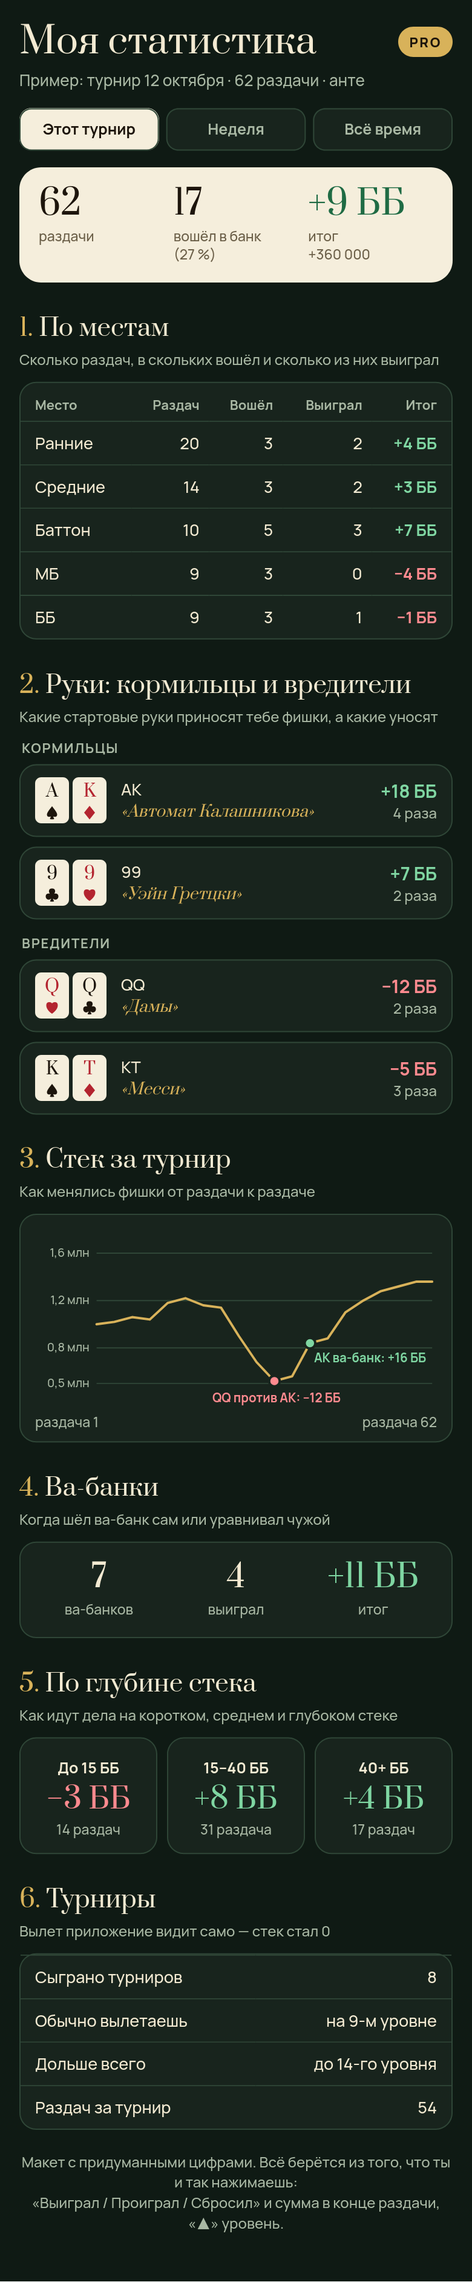
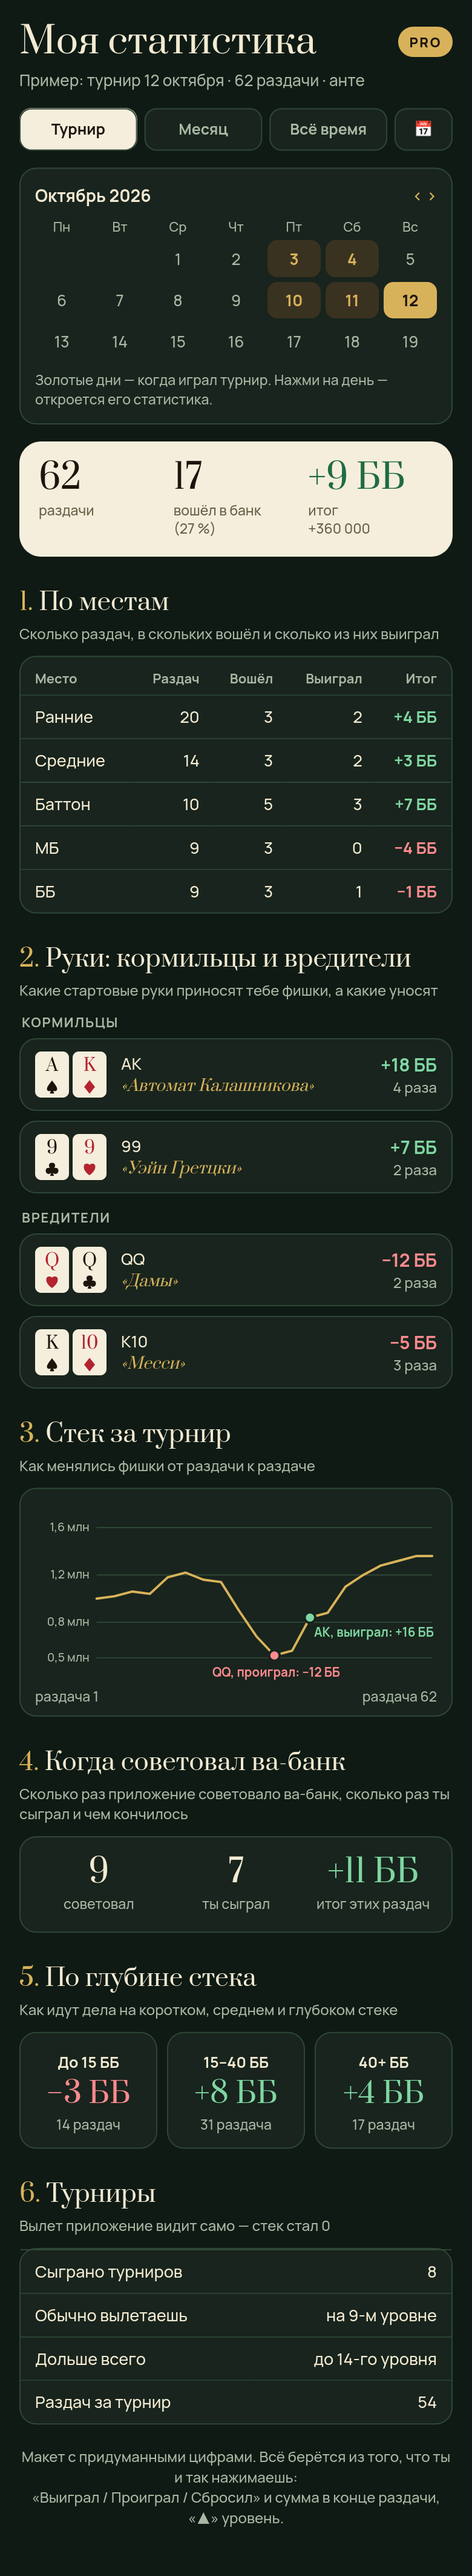
Макеты Pro по замечаниям: тренажёр на настоящем столе, статистика с календарём

Changed region(s): [[0.0308, 0.0, 0.9846, 0.9947], [0.6154, 0.746, 0.6769, 0.8082], [0.6154, 0.2487, 0.6769, 0.3108]]

diff --git a/mockups/pro-stats.html b/mockups/pro-stats.html
@@ -52,13 +52,32 @@ td { padding: 8px; text-align: right; border-top: 1px solid var(--panel-line); w
 .ai { display: grid; grid-template-columns: 1fr 1fr 1fr; text-align: center; padding: 14px 8px; }
 .ai .big { font: 400 26px/1.1 Prata; }
 .ai small { color: var(--muted); font-size: 11.5px; }
+.tabs span:last-child { flex: 0 0 48px; }
+.cal { background: var(--panel); border: 1px solid var(--panel-line); border-radius: 14px; padding: 12px; margin-bottom: 14px; }
+.cal-head { display: flex; justify-content: space-between; font-size: 14px; margin-bottom: 8px; } .cal-head span { color: var(--gold); }
+.cal-grid { display: grid; grid-template-columns: repeat(7, 1fr); gap: 4px; text-align: center; font-size: 13px; }
+.cal-grid i { font-style: normal; color: var(--muted); font-size: 11px; }
+.cal-grid span { padding: 6px 0; border-radius: 8px; color: var(--muted); }
+.cal-grid .t { background: #3a3220; color: var(--gold); font-weight: 700; }
+.cal-grid .on { background: var(--gold); color: var(--ink); }
+.cal-note { color: var(--muted); font-size: 11.5px; margin-top: 8px; }
 .note { color: var(--muted); font-size: 12px; margin-top: 18px; text-align: center; }
 </style>
 </head>
 <body>
   <div class="top"><h1>Моя статистика</h1><span class="pro">PRO</span></div>
   <p class="sub">Пример: турнир 12 октября · 62 раздачи · анте</p>
-  <div class="tabs"><span class="on">Этот турнир</span><span>Неделя</span><span>Всё время</span></div>
+  <div class="tabs"><span class="on">Турнир</span><span>Месяц</span><span>Всё время</span><span>📅</span></div>
+  <div class="cal">
+    <div class="cal-head"><b>Октябрь 2026</b><span>‹ ›</span></div>
+    <div class="cal-grid">
+      <i>Пн</i><i>Вт</i><i>Ср</i><i>Чт</i><i>Пт</i><i>Сб</i><i>Вс</i>
+      <span></span><span></span><span>1</span><span>2</span><span class="t">3</span><span class="t">4</span><span>5</span>
+      <span>6</span><span>7</span><span>8</span><span>9</span><span class="t">10</span><span class="t">11</span><span class="t on">12</span>
+      <span>13</span><span>14</span><span>15</span><span>16</span><span>17</span><span>18</span><span>19</span>
+    </div>
+    <div class="cal-note">Золотые дни — когда играл турнир. Нажми на день — откроется его статистика.</div>
+  </div>
 
   <div class="card">
     <div><div class="n">62</div><small>раздачи</small></div>
@@ -90,8 +109,8 @@ td { padding: 8px; text-align: right; border-top: 1px solid var(--panel-line); w
   <div class="hands">
     <div class="panel h"><div class="cards"><div class="c r">Q<i>♥</i></div><div class="c">Q<i>♣</i></div></div>
       <div class="nm">QQ<span>«Дамы»</span></div><div class="res"><b class="minus">−12 ББ</b>2 раза</div></div>
-    <div class="panel h"><div class="cards"><div class="c">K<i>♠</i></div><div class="c r">T<i>♦</i></div></div>
-      <div class="nm">KT<span>«Месси»</span></div><div class="res"><b class="minus">−5 ББ</b>3 раза</div></div>
+    <div class="panel h"><div class="cards"><div class="c">K<i>♠</i></div><div class="c r">10<i>♦</i></div></div>
+      <div class="nm">K10<span>«Месси»</span></div><div class="res"><b class="minus">−5 ББ</b>3 раза</div></div>
   </div>
 
   <h2><span class="num">3.</span> Стек за турнир</h2>
@@ -108,18 +127,18 @@ td { padding: 8px; text-align: right; border-top: 1px solid var(--panel-line); w
         points="52.0,80 67.0,78 82.1,74 97.1,76 112.2,62 127.2,58 142.3,64 157.3,66 172.4,90 187.4,112 202.5,128 217.5,124 232.6,96 247.6,92 262.6,70 277.7,60 292.7,52 307.8,48 322.8,44 336.0,44"/>
       <circle cx="202.5" cy="128" r="4.5" fill="#ff8a8f" stroke="#18241d" stroke-width="2"/>
       <circle cx="232.6" cy="96" r="4.5" fill="#7fd6a2" stroke="#18241d" stroke-width="2"/>
-      <text x="150" y="146" fill="#ff8a8f" font-family="Manrope" font-size="10.5" font-weight="700">QQ против AK: −12 ББ</text>
-      <text x="236" y="112" fill="#7fd6a2" font-family="Manrope" font-size="10.5" font-weight="700">AK ва-банк: +16 ББ</text>
+      <text x="150" y="146" fill="#ff8a8f" font-family="Manrope" font-size="10.5" font-weight="700">QQ, проиграл: −12 ББ</text>
+      <text x="236" y="112" fill="#7fd6a2" font-family="Manrope" font-size="10.5" font-weight="700">AK, выиграл: +16 ББ</text>
     </svg>
     <div class="cap"><span>раздача 1</span><span>раздача 62</span></div>
   </div>
 
-  <h2><span class="num">4.</span> Ва-банки</h2>
-  <p class="hint">Когда шёл ва-банк сам или уравнивал чужой</p>
+  <h2><span class="num">4.</span> Когда советовал ва-банк</h2>
+  <p class="hint">Сколько раз приложение советовало ва-банк, сколько раз ты сыграл и чем кончилось</p>
   <div class="panel ai">
-    <div><div class="big">7</div><small>ва-банков</small></div>
-    <div><div class="big">4</div><small>выиграл</small></div>
-    <div><div class="big plus">+11 ББ</div><small>итог</small></div>
+    <div><div class="big">9</div><small>советовал</small></div>
+    <div><div class="big">7</div><small>ты сыграл</small></div>
+    <div><div class="big plus">+11 ББ</div><small>итог этих раздач</small></div>
   </div>
 
   <h2><span class="num">5.</span> По глубине стека</h2>
